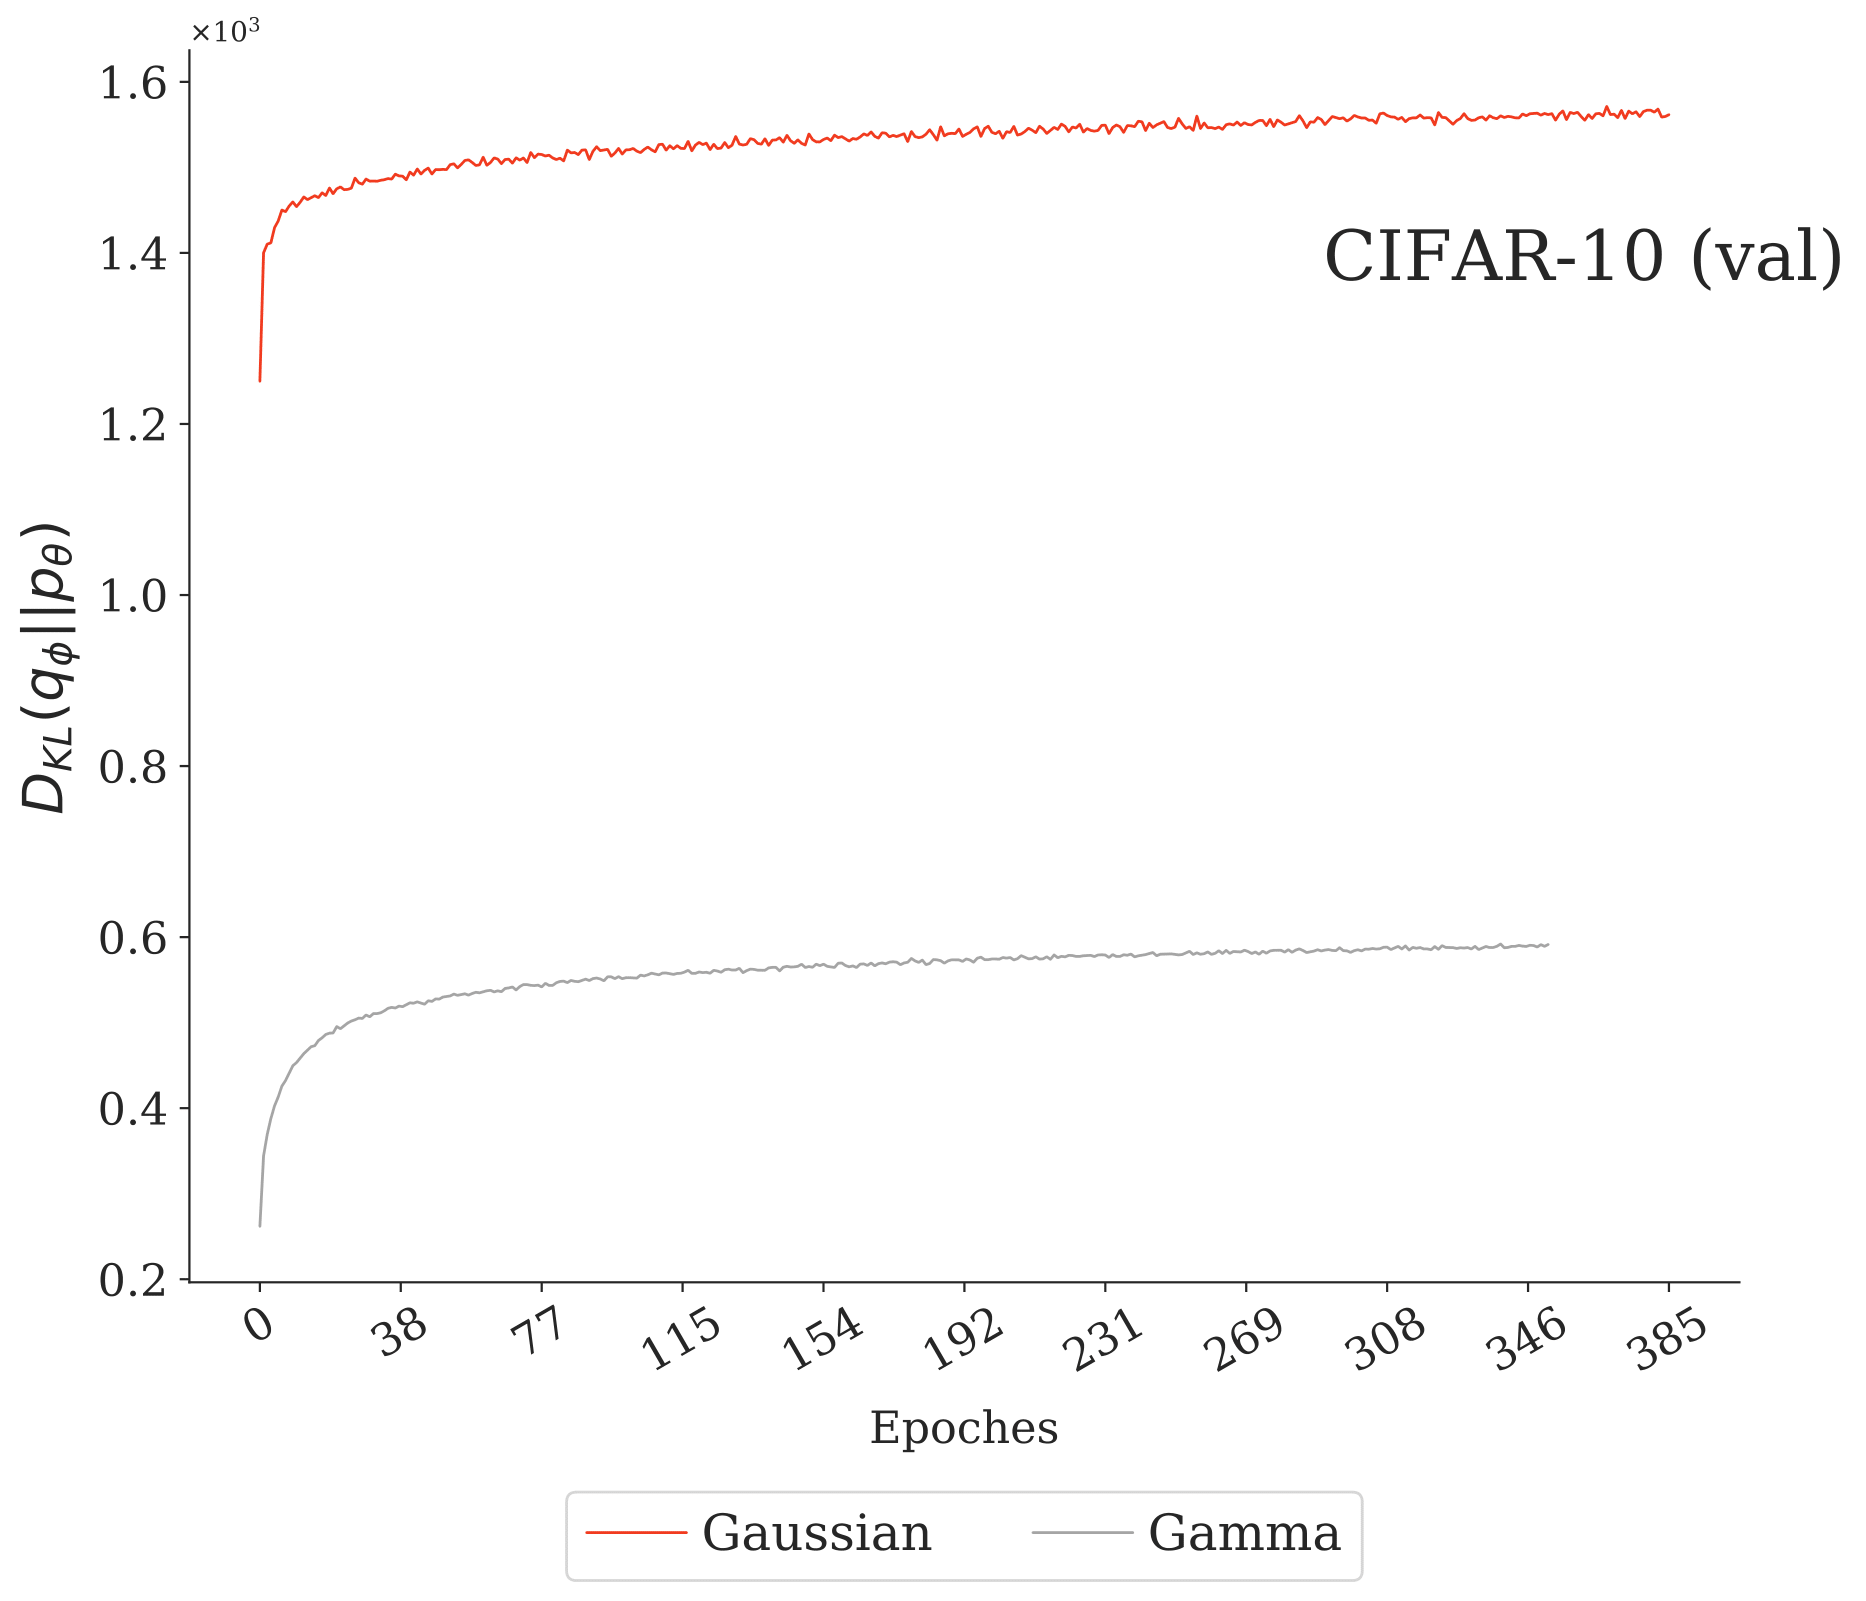
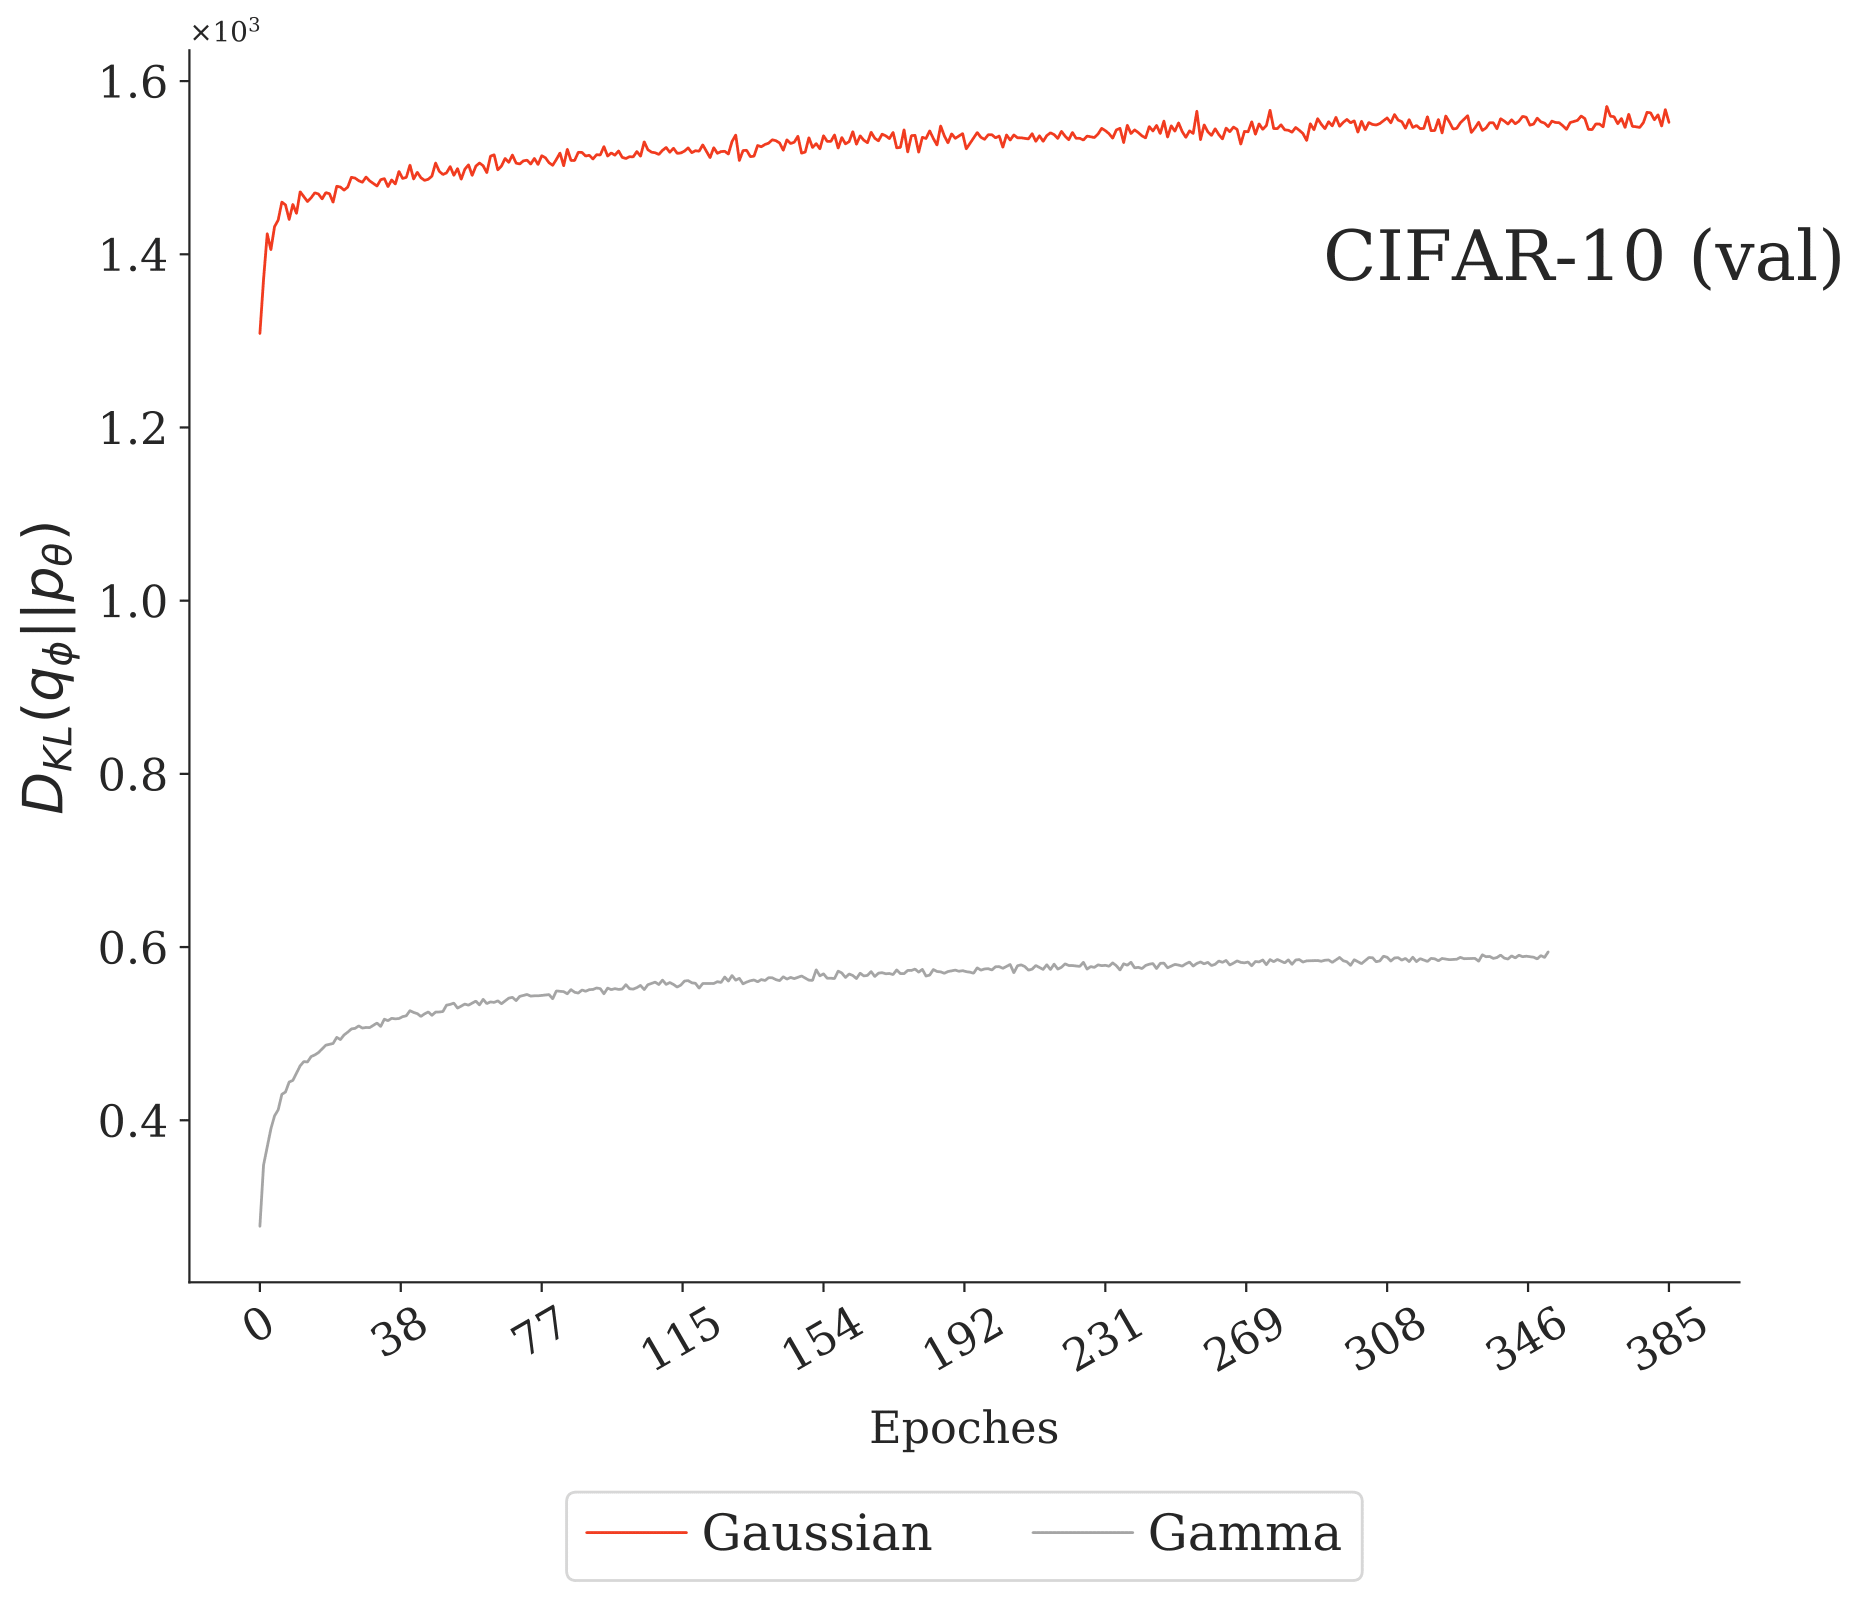
Fixing plots

diff --git a/plot_results.py b/plot_results.py
@@ -1,8 +1,4 @@
-
 # coding: utf-8
-
-# In[1]:
-
 
 import pandas as pd
 import numpy as np
@@ -24,18 +20,11 @@ pgf_with_rc_fonts = {
 }
 sns.set_style(style='white',rc=pgf_with_rc_fonts)
 
-
-# In[2]:
-
-
 def hide_box(ax):
     ax.spines['top'].set_visible(False)
     ax.spines['right'].set_visible(False)
     ax.get_xaxis().tick_bottom()
     ax.get_yaxis().tick_left()
-
-
-# In[3]:
 
 
 def plot_train(x_n,y_n,x_g,y_g,y_axis,title,file_name):
@@ -63,58 +52,39 @@ def plot_train(x_n,y_n,x_g,y_g,y_axis,title,file_name):
     
     plt.close(fig)
 
-
-# In[4]:
-
-
-train_cifar = glob("data/train_*cifar-10*.log")
-train_mnist = glob("data/train_*mnist*.log") 
-val_cifar = glob("data/train_*cifar-10*.log")
-val_mnist = glob("data/val_*mnist*.log")
-
-
-# In[5]:
-
+train_cifar = sorted(glob("data/train_*cifar-10*.log"))
+train_mnist = sorted(glob("data/train_*mnist*.log")) 
+val_cifar = sorted(glob("data/val_*cifar-10*.log"))
+val_mnist = sorted(glob("data/val_*mnist*.log"))
 
 dict_ = {}
 
+df_train_cifar_n = pd.read_csv(train_cifar[1],sep='\t')
+df_train_cifar_g = pd.read_csv(train_cifar[0],sep='\t')
 
-# In[6]:
-
-
-df_train_cifar_n = pd.read_csv(train_cifar[0],sep='\t')
-df_train_cifar_g = pd.read_csv(train_cifar[1],sep='\t')
-
-df_val_cifar_n = pd.read_csv(val_cifar[0],sep='\t')
-df_val_cifar_g = pd.read_csv(val_cifar[1],sep='\t')
+df_val_cifar_n = pd.read_csv(val_cifar[1],sep='\t')
+df_val_cifar_g = pd.read_csv(val_cifar[0],sep='\t')
 
 dict_['CIFAR-10'] = {"train":(df_train_cifar_n,df_train_cifar_g),
                      "val":(df_val_cifar_n, df_val_cifar_g)}
 
+df_train_mnist_n = pd.read_csv(train_mnist[1],sep='\t')
+df_train_mnist_g = pd.read_csv(train_mnist[0],sep='\t')
 
-# In[7]:
-
-
-df_train_mnist_n = pd.read_csv(train_mnist[0],sep='\t')
-df_train_mnist_g = pd.read_csv(train_mnist[1],sep='\t')
-
-df_val_mnist_n = pd.read_csv(val_mnist[0],sep='\t')
-df_val_mnist_g = pd.read_csv(val_mnist[1],sep='\t')
+df_val_mnist_n = pd.read_csv(val_mnist[1],sep='\t')
+df_val_mnist_g = pd.read_csv(val_mnist[0],sep='\t')
 
 dict_['MNIST'] = {"train": (df_train_mnist_n,df_train_mnist_g),
                   "val": (df_val_mnist_n, df_val_mnist_g)}
 
-
-# In[8]:
-
-
 for dataset in dict_:
     for stage in dict_[dataset]:
         normal, gamma = dict_[dataset][stage]
+        
         for loss in ["KL", "Recons"]:
             y_axis = "$D_{KL}(q_{\phi}||p_{\\theta})$" if loss == "KL" else "$p_{\\theta}(x|z)$"
             title = "{} ({})".format(dataset,stage)
-            file_name = "./images/{}_{}_{}".format(dataset.lower().replace("-","_"),stage,loss.lower())
+            file_name = "./data/{}_{}_{}".format(dataset.lower().replace("-","_"),stage,loss.lower())
 
-            plot_train(normal.Epoch.values,normal[loss].values,                       gamma.Epoch.values,gamma[loss].values,                       y_axis, title, file_name)
+            plot_train(normal.Epoch.values,normal[loss].values, gamma.Epoch.values,gamma[loss].values,y_axis, title, file_name)
 
